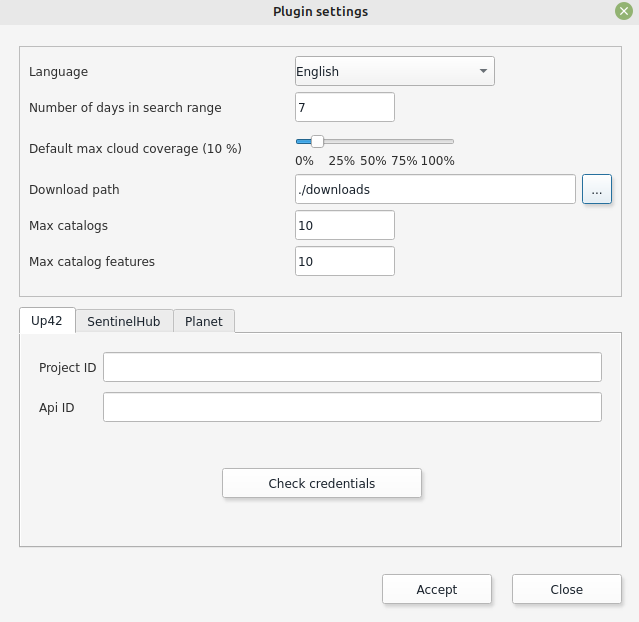
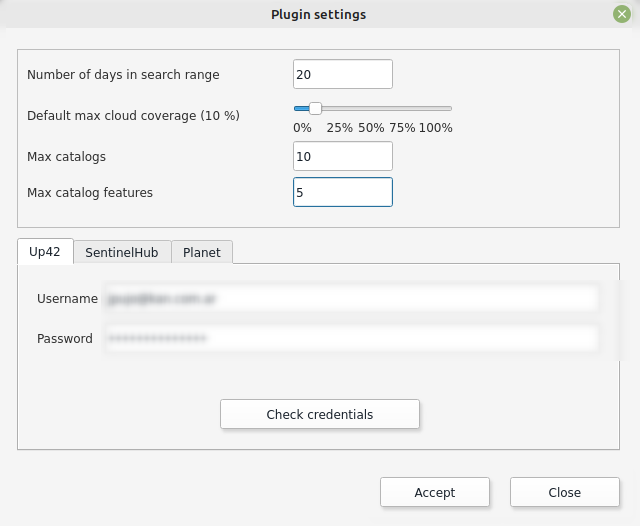
set new way to auth to UP42 provider

diff --git a/docs/user_guide_kic.md b/docs/user_guide_kic.md
@@ -42,12 +42,10 @@ To use the Kan Imagery Catalog plugin, the first thing to do is to configure the
    ![Plugin Window](./image/up42.png)
 
 - The plugin requests the following information to connect to the provider:
-  - **Project ID**
-  - **API ID**
+  - **Username**
+  - **Password**
 
   *Hint:* You can find this information on the UP42 portal > Projects > Developers.
-
-   ![Plugin Window](./image/up42_hint.png)
 
 - After loading the necessary data, you can verify the credentials.
 
@@ -82,10 +80,8 @@ To use the Kan Imagery Catalog plugin, the first thing to do is to configure the
 
 #### General Parameters
 - In addition to loading credentials, the user can set the following parameters:
-  - **Language:** Choose from Spanish, English, or Portuguese.
   - **Number of Query Days**
   - **Default Maximum Cloud Cover:** Can vary between 0 and 100%.
-  - **Download Path**
   - **Maximum Number of Catalogs**
   - **Maximum Number of Objects per Catalog**
 
